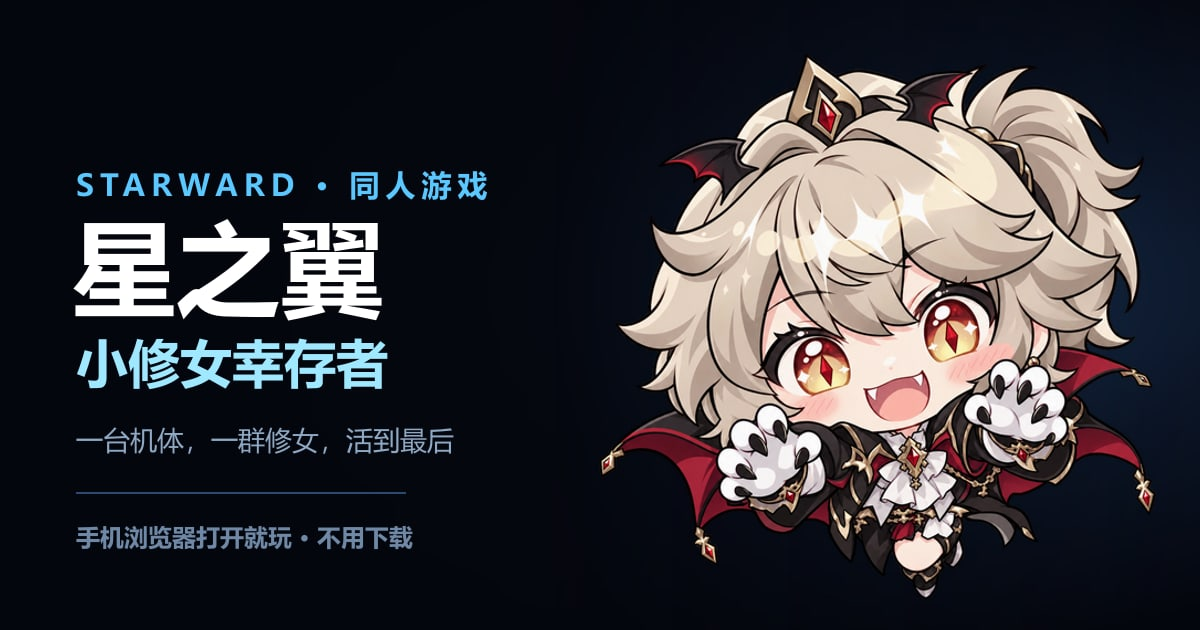
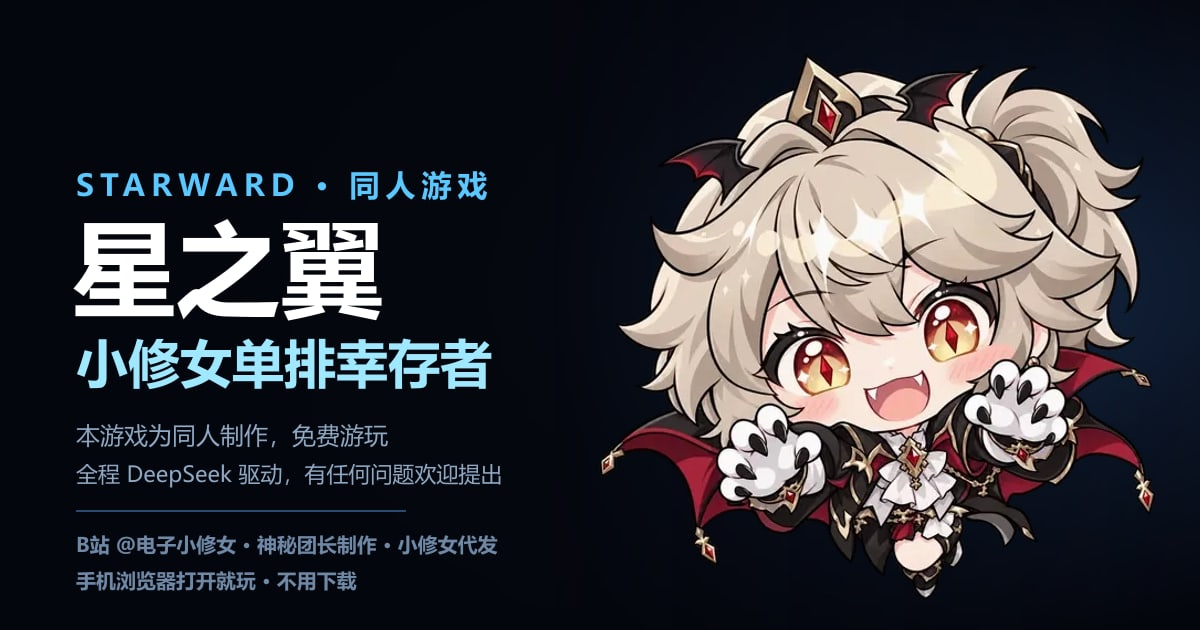
Add files via upload

Changed region(s): [[0.0617, 0.6635, 0.4317, 0.9349], [0.185, 0.5127, 0.4317, 0.6333]]

diff --git a/index.html b/index.html
@@ -4,7 +4,7 @@
 <meta charset="UTF-8">
 <meta name="viewport" content="width=device-width, initial-scale=1, viewport-fit=cover, user-scalable=no">
 <title>星之翼 · 小修女幸存者</title>
-<meta name="description" content="星之翼同人游戏，小修女幸存者。手机浏览器打开就玩，一台机体撑到最后，还能押注 1v1 对局。不用下载，免费。">
+<meta name="description" content="星之翼小修女单排幸存者，同人制作，免费游玩，全程 DeepSeek 驱动。手机浏览器打开就玩，还有 1v1 押注添头。">
 <meta name="keywords" content="星之翼,同人游戏,幸存者,小修女,弹幕,手机游戏,网页游戏">
 <meta name="author" content="星之翼同人">
 
@@ -12,18 +12,18 @@
 <meta property="og:type" content="website">
 <meta property="og:site_name" content="星之翼">
 <meta property="og:title" content="星之翼 · 小修女幸存者">
-<meta property="og:description" content="一台机体，一群修女，活到最后。手机浏览器打开就玩，不用下载。">
-<meta property="og:url" content="https://echhhhh.github.io/starward-arena/">
+<meta property="og:description" content="星之翼小修女单排幸存者。同人制作，免费游玩，全程 DeepSeek 驱动。手机浏览器打开就玩。">
+<meta property="og:url" content="https://orbnote.github.io/starward-arena/">
 <!-- 这两个必须是完整网址，微信 / B 站 / QQ 才认，相对路径抓不到 -->
-<meta property="og:image" content="https://echhhhh.github.io/starward-arena/assets/og_cover.jpg">
+<meta property="og:image" content="https://orbnote.github.io/starward-arena/assets/og_cover.jpg">
 <meta property="og:image:alt" content="星之翼 · 小修女幸存者">
 <meta property="og:image:width" content="1200">
 <meta property="og:image:height" content="630">
 <meta name="twitter:card" content="summary_large_image">
 <meta name="twitter:title" content="星之翼 · 小修女幸存者">
-<meta name="twitter:description" content="一台机体，一群修女，活到最后。手机浏览器打开就玩。">
-<meta name="twitter:image" content="https://echhhhh.github.io/starward-arena/assets/og_cover.jpg">
-<link rel="canonical" href="https://echhhhh.github.io/starward-arena/">
+<meta name="twitter:description" content="星之翼小修女单排幸存者。同人制作，免费游玩，全程 DeepSeek 驱动。手机浏览器打开就玩。">
+<meta name="twitter:image" content="https://orbnote.github.io/starward-arena/assets/og_cover.jpg">
+<link rel="canonical" href="https://orbnote.github.io/starward-arena/">
 
 <link rel="icon" href="assets/icon/favicon-32.png" sizes="32x32">
 <link rel="icon" href="assets/icon/icon.svg" type="image/svg+xml">
@@ -33,7 +33,7 @@
 <meta name="apple-mobile-web-app-capable" content="yes">
 <meta name="apple-mobile-web-app-status-bar-style" content="black-translucent">
 <meta name="apple-mobile-web-app-title" content="星之翼">
-<link rel="stylesheet" href="styles.css?v=134">
+<link rel="stylesheet" href="styles.css?v=136">
 </head>
 <body>
 
@@ -133,7 +133,7 @@
         <b class="ht-no">01</b>
         <span class="ht-body">
           <span class="ht-name">开一局 小修女幸存者</span>
-          <span class="ht-desc">幸存者玩法，一台机体活到最后</span>
+          <span class="ht-desc">单排幸存者，选一台机体开打</span>
         </span>
         <span class="ht-go">▶</span>
       </button>
@@ -172,6 +172,13 @@
     <div class="home-foot">
       <button id="homeWipe" class="home-wipe">清空存档</button>
       <span>积分、解锁、自定义机体一起清掉，回到刚开服的样子</span>
+    </div>
+    <div class="home-brand">
+      <span class="hb-title">星之翼小修女单排幸存者</span>
+      <span class="hb-slogan">本游戏为同人制作，免费游玩</span>
+      <span class="hb-credit">全程 DeepSeek 驱动，有任何问题欢迎提出</span>
+      <span class="hb-credit">B站 <a href="https://space.bilibili.com/3747573324058112" target="_blank" rel="noopener">@电子小修女</a></span>
+      <span class="hb-credit">神秘团长制作 · 小修女代发</span>
     </div>
   </div>
 </div>
@@ -342,19 +349,26 @@
     <button id="pveAgain">再来一局</button>
     <button id="pveQuit">返回大厅</button>
   </div>
+  <div class="pve-brand">
+    <span class="pb-title">星之翼小修女单排幸存者</span>
+    <span>本游戏为同人制作，免费游玩</span>
+    <span>全程 DeepSeek 驱动，有任何问题欢迎提出</span>
+    <span><a href="https://space.bilibili.com/3747573324058112" target="_blank" rel="noopener">B站 @电子小修女</a></span>
+    <span>神秘团长制作 · 小修女代发</span>
+  </div>
 </div>
 
-<script src="js/crash.js?v=134"></script>
-<script src="js/core.js?v=134"></script>
-<script src="js/data.js?v=134"></script>
-<script src="js/engine.js?v=134"></script>
-<script src="js/render.js?v=134"></script>
-<script src="js/editor.js?v=134"></script>
-<script src="js/ui.js?v=134"></script>
-<script src="js/menu.js?v=134"></script>
-<script src="js/debug.js?v=134"></script>
-<script src="js/console.js?v=134"></script>
-<script src="js/pve.js?v=134"></script>
-<script src="js/main.js?v=134"></script>
+<script src="js/crash.js?v=136"></script>
+<script src="js/core.js?v=136"></script>
+<script src="js/data.js?v=136"></script>
+<script src="js/engine.js?v=136"></script>
+<script src="js/render.js?v=136"></script>
+<script src="js/editor.js?v=136"></script>
+<script src="js/ui.js?v=136"></script>
+<script src="js/menu.js?v=136"></script>
+<script src="js/debug.js?v=136"></script>
+<script src="js/console.js?v=136"></script>
+<script src="js/pve.js?v=136"></script>
+<script src="js/main.js?v=136"></script>
 </body>
 </html>

diff --git a/js/pve.js b/js/pve.js
@@ -962,13 +962,20 @@
     g.font = '800 36px ' + F;
     g.fillText((run.win ? '撑住了' : '被吞没') + '　·　' + run.lenTag + '局', W / 2, rowY + 158);
 
-    /* 底部：地址 + 免费声明 */
+    /* 底部：项目名、同人声明、AI 声明、B站号、署名 */
+    g.fillStyle = '#8fc6f0';
+    g.font = '800 30px ' + F;
+    g.fillText('星之翼小修女单排幸存者', W / 2, H - 210);
     g.fillStyle = '#8fa8c4';
-    g.font = '600 32px ' + F;
-    g.fillText('手机浏览器打开就玩，不用下载', W / 2, H - 132);
+    g.font = '600 24px ' + F;
+    g.fillText('本游戏为同人制作，免费游玩', W / 2, H - 172);
+    g.fillStyle = '#6f88a6';
+    g.fillText('全程 DeepSeek 驱动，有任何问题欢迎提出', W / 2, H - 134);
+    g.fillStyle = '#6fa9d8';
+    g.fillText('B站 @电子小修女', W / 2, H - 96);
     g.fillStyle = '#4f6a86';
-    g.font = '600 26px ' + F;
-    g.fillText(location.host || '星之翼同人', W / 2, H - 86);
+    g.font = '600 22px ' + F;
+    g.fillText('神秘团长制作 · 小修女代发', W / 2, H - 58);
 
     return c;
   }
@@ -1014,7 +1021,10 @@
     const r = lastRun;
     if (!r) return '';
     return '我在《' + GAME_TITLE + '》' + r.lenTag + '局撑了 ' + mmss(r.sec)
-      + '，击杀 ' + r.kills + '，得分 +' + r.gain + '。来试试：' + playUrl();
+      + '，击杀 ' + r.kills + '，得分 +' + r.gain + '。来试试：' + playUrl()
+      + '\n星之翼小修女单排幸存者 · 同人制作，免费游玩'
+      + '\n全程 DeepSeek 驱动，有任何问题欢迎提出'
+      + '\nB站 @电子小修女 · 神秘团长制作 · 小修女代发';
   }
 
   function copyRun() {
@@ -1153,7 +1163,7 @@
 
   /* 选人入口：走大厅的通用选人面板（不再用底部下注条的弹层） */
   P.choose = function () {
-    if (SW.Menu && SW.Menu.pickChar) SW.Menu.pickChar('小修女幸存者', id => P.start(id), '活到最后 · 只能选已解锁机体');
+    if (SW.Menu && SW.Menu.pickChar) SW.Menu.pickChar('小修女幸存者', id => P.start(id), '单排幸存者 · 只能选已解锁机体');
     else P.start();
   };
 

diff --git a/styles.css b/styles.css
@@ -429,6 +429,19 @@ body:not(.console-on) #homeForge{display:none}
 .home-wipe:hover{color:#ffc9d6;border-color:rgba(255,140,170,.55);background:rgba(60,18,32,.7)}
 .home-foot span{font-size:9.5px;color:#3f4d61;letter-spacing:.04em;text-align:center}
 
+/* 大厅底部署名：只做小字，不抢入口，也不冒充开发者 */
+.home-brand{
+  margin-top:12px;padding-top:10px;
+  border-top:1px solid rgba(90,130,180,.12);
+  display:flex;flex-direction:column;align-items:center;gap:4px;
+  text-align:center;
+}
+.hb-title{font-size:11px;font-weight:900;color:#8fc6f0;letter-spacing:.1em}
+.hb-slogan{font-size:9.5px;color:#526b88;letter-spacing:.12em}
+.hb-credit{font-size:9.5px;color:#3f5874;letter-spacing:.04em}
+.hb-credit a{color:#6fa9d8;text-decoration:none}
+.hb-credit a:hover{color:#bfe8ff}
+
 /* ---------- 面板（开一局 / 机体库 / 选人） ---------- */
 .sheet{
   position:fixed;inset:0;z-index:90;
@@ -931,6 +944,15 @@ body.pve-mode #betbar{display:none}
   border-color:rgba(140,200,255,.6);
 }
 .pve-actions button:hover{filter:brightness(1.15)}
+.pve-brand{
+  margin-top:10px;padding-top:8px;
+  border-top:1px solid rgba(90,130,180,.16);
+  display:flex;flex-direction:column;gap:2px;
+  font-size:9.5px;line-height:1.4;color:#4f6a86;letter-spacing:.03em;
+}
+.pve-brand a{color:#7fb6dd;text-decoration:none}
+.pve-brand a:hover{color:#bfe8ff}
+.pve-brand .pb-title{font-size:10.5px;font-weight:800;color:#7fb6dd;letter-spacing:.06em}
 
 .pick-title{
   padding:6px 8px 8px;font:700 12px "PingFang SC",sans-serif;

diff --git a/js/render.js b/js/render.js
@@ -1886,7 +1886,7 @@ window.SW = window.SW || {};
     const col = f.char.color || '#8fd8ff';
     const k = f.spawnT > 0 ? Math.max(0, 1 - f.spawnT / 0.35) : 1;
     /* artScale：专属立绘的视觉放大系数。碰撞半径不能为了「看得清」去改，
-       否则贴脸判定会跟着变，只能在这里单独放大贴图（蝙蝠只有一颗头，26px 撑不住表情） */
+       否则贴脸判定会跟着变，只能在这里单独放大贴图（蚊子只有一颗头，26px 撑不住表情） */
     const R0 = f.r * (1.05 + (1 - k) * 0.7) * (f.char.artScale || 1);
     /* 立绘是异步加载的：刚刷出来的第一只可能还没解码完，
        这里每帧再问一次，别让「第一只怪」永久退化成共用立绘 */
